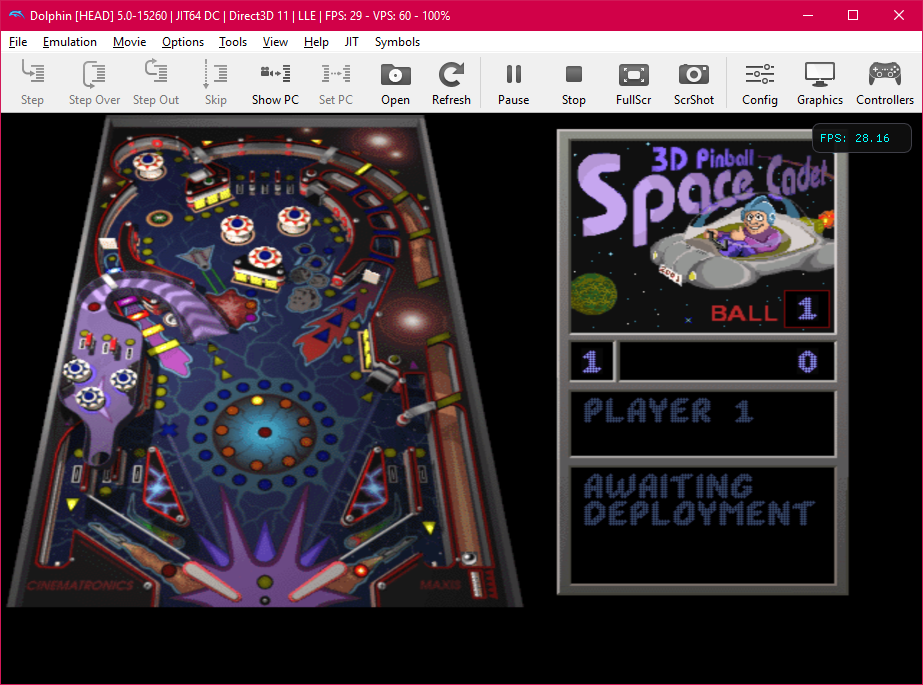
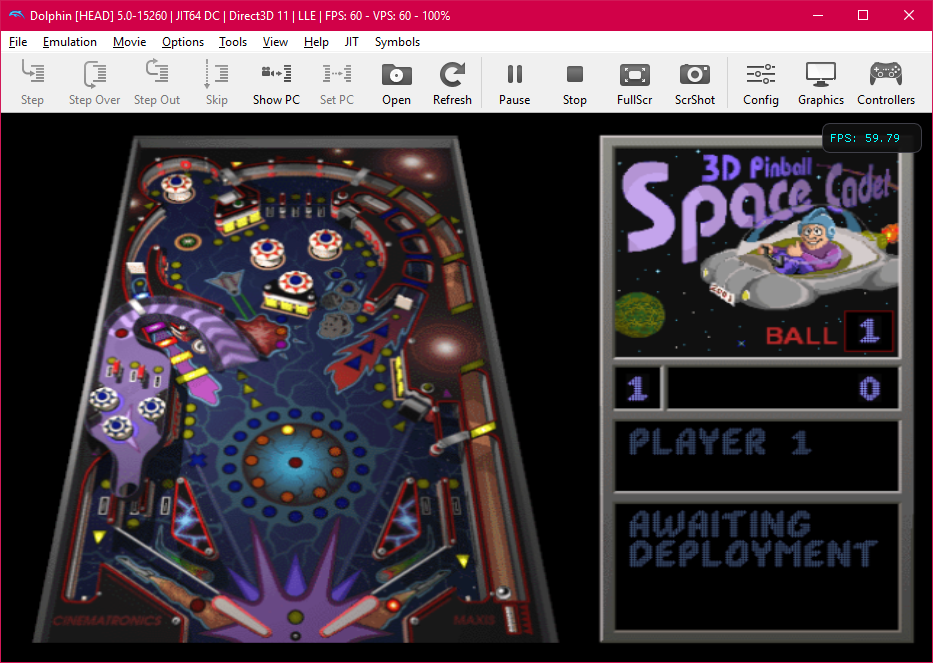
Updated README and screenshot.

diff --git a/README.md b/README.md
@@ -1,16 +1,15 @@
 # 3D Pinball - Space Cadet for Wii
 
-This is a port of 3D Pinball - Space Cadet for Nintendo Wii. It's originally a game that came bundled with Windows from Windows 95 up to Windows XP. It's still in early stages. This is the current state of the project:
+This is a port of 3D Pinball - Space Cadet for Nintendo Wii. It's originally a game that came bundled with Windows from Windows 95 up to Windows XP. This is the current state of the project:
 
 - No menus, options, or results screen.
-- Playable with the Wii remote.
-- It plays sound effects and music.
-- There are some visual glitches.
-- The game runs slow, at around 30fps.
+- Playable with the Wii remote and the GameCube pad.
+- It plays sound effects and music (if the player supplies the music in OGG format).
+- There are still some bugs here and there, but it's perfectly playable.
 
 It is based on the PC decompilation made by [k4zmu2a](https://github.com/k4zmu2a): https://github.com/k4zmu2a/SpaceCadetPinball
 
-The PC decompilation uses SDL2 to render the game. This Wii port has been changed to use SDL1 due to SDL2 not being available for Wii. I'm considering discarding SDL and implement low level GPU rendering, as SDL for Wii is considered incomplete, doesn't use the GPU too much and it's part of the reason why this port runs slow.
+The PC decompilation uses SDL2 to render the game. This Wii port has been changed to use native GPU rendering with the GX library, as SDL for Wii is considered incomplete, doesn't use the GPU too much and it was really slow.
 
 I also made the required changes to make the original game's binary assets work in this port. The Wii's CPU is big endian, instead of little endian like PC x86. These changes could be useful for porting to other big endian devices.
 
@@ -58,6 +57,7 @@ After a successful build, you will get a file called `SpaceCadetPinball.dol`, wh
 3. Copy `boot.dol` to `apps/SpaceCadetPinball/` in your SD card.
 4. For legal reasons, you will need to get the original PC game on your own to obtain the assets like graphics and sound effects. Those are not contained in this repository.
 5. Copy all PC game's assets to `apps/SpaceCadetPinball/Data/` in your SD card.
+6. Optionally, since this port doesn't play MIDI files, you'll need to convert the music to ogg format, and call the file `PINBALL.ogg`, and put it along the other assets in the `Data` folder.
 6. If everything went fine, you should be able to see the game in your homebrew channel and run it.
 
 ### Dolphin
@@ -65,7 +65,7 @@ After a successful build, you will get a file called `SpaceCadetPinball.dol`, wh
 1. Get the [Dolphin emulator](https://dolphin-emu.org) if you don't have it.
 2. Create and edit a virtual SD card following [these instructions](https://wiki.dolphin-emu.org/index.php?title=Virtual_SD_Card_Guide).
 3. Mount that virtual card.
-4. Follow the steps 4 and 5 in `Wii with homebrew channel` section.
+4. Follow the steps 4, 5 and 6 in `Wii with homebrew channel` section.
 5. Unmount the SD card, as Dolphin won't be able to access its contents while it's mounted.
 6. Open Dolphin, go to `Config`, then to the `Audio` tab, and select `DSP LLE REcompiler (slow)`. Audio won't work without that.
 7. Go to `Graphics` settings, then to the `Hacks` tab, and move the `Accuracy` slider all the way to the left to set it as `Safe`.
@@ -75,6 +75,7 @@ After a successful build, you will get a file called `SpaceCadetPinball.dol`, wh
 
 ## How to play
 
+### Wii Remote
 ```
 A                    :  Launch the ball
 Z                    :  Move the left paddle
@@ -84,8 +85,18 @@ DPAD Left, Right, Up :  Bump table
 +                    :  Pause
 ```
 
+### GameCube Pad
+```
+A                    :  Launch the ball
+L                    :  Move the left paddle
+R                    :  Move the right paddle
+DPAD Left, Right, Up :  Bump table
+Y                    :  Start a new game
+Start                :  Pause
+```
+
 ## Screenshots
 
 <p align="center">
-  <img title="3D Pinball - Space Cadet running on Dolphin Emulator" src="/screenshot00.png">
+  <img title="3D Pinball - Space Cadet for Wii running on Dolphin Emulator" src="/screenshot00.png">
 </p>
